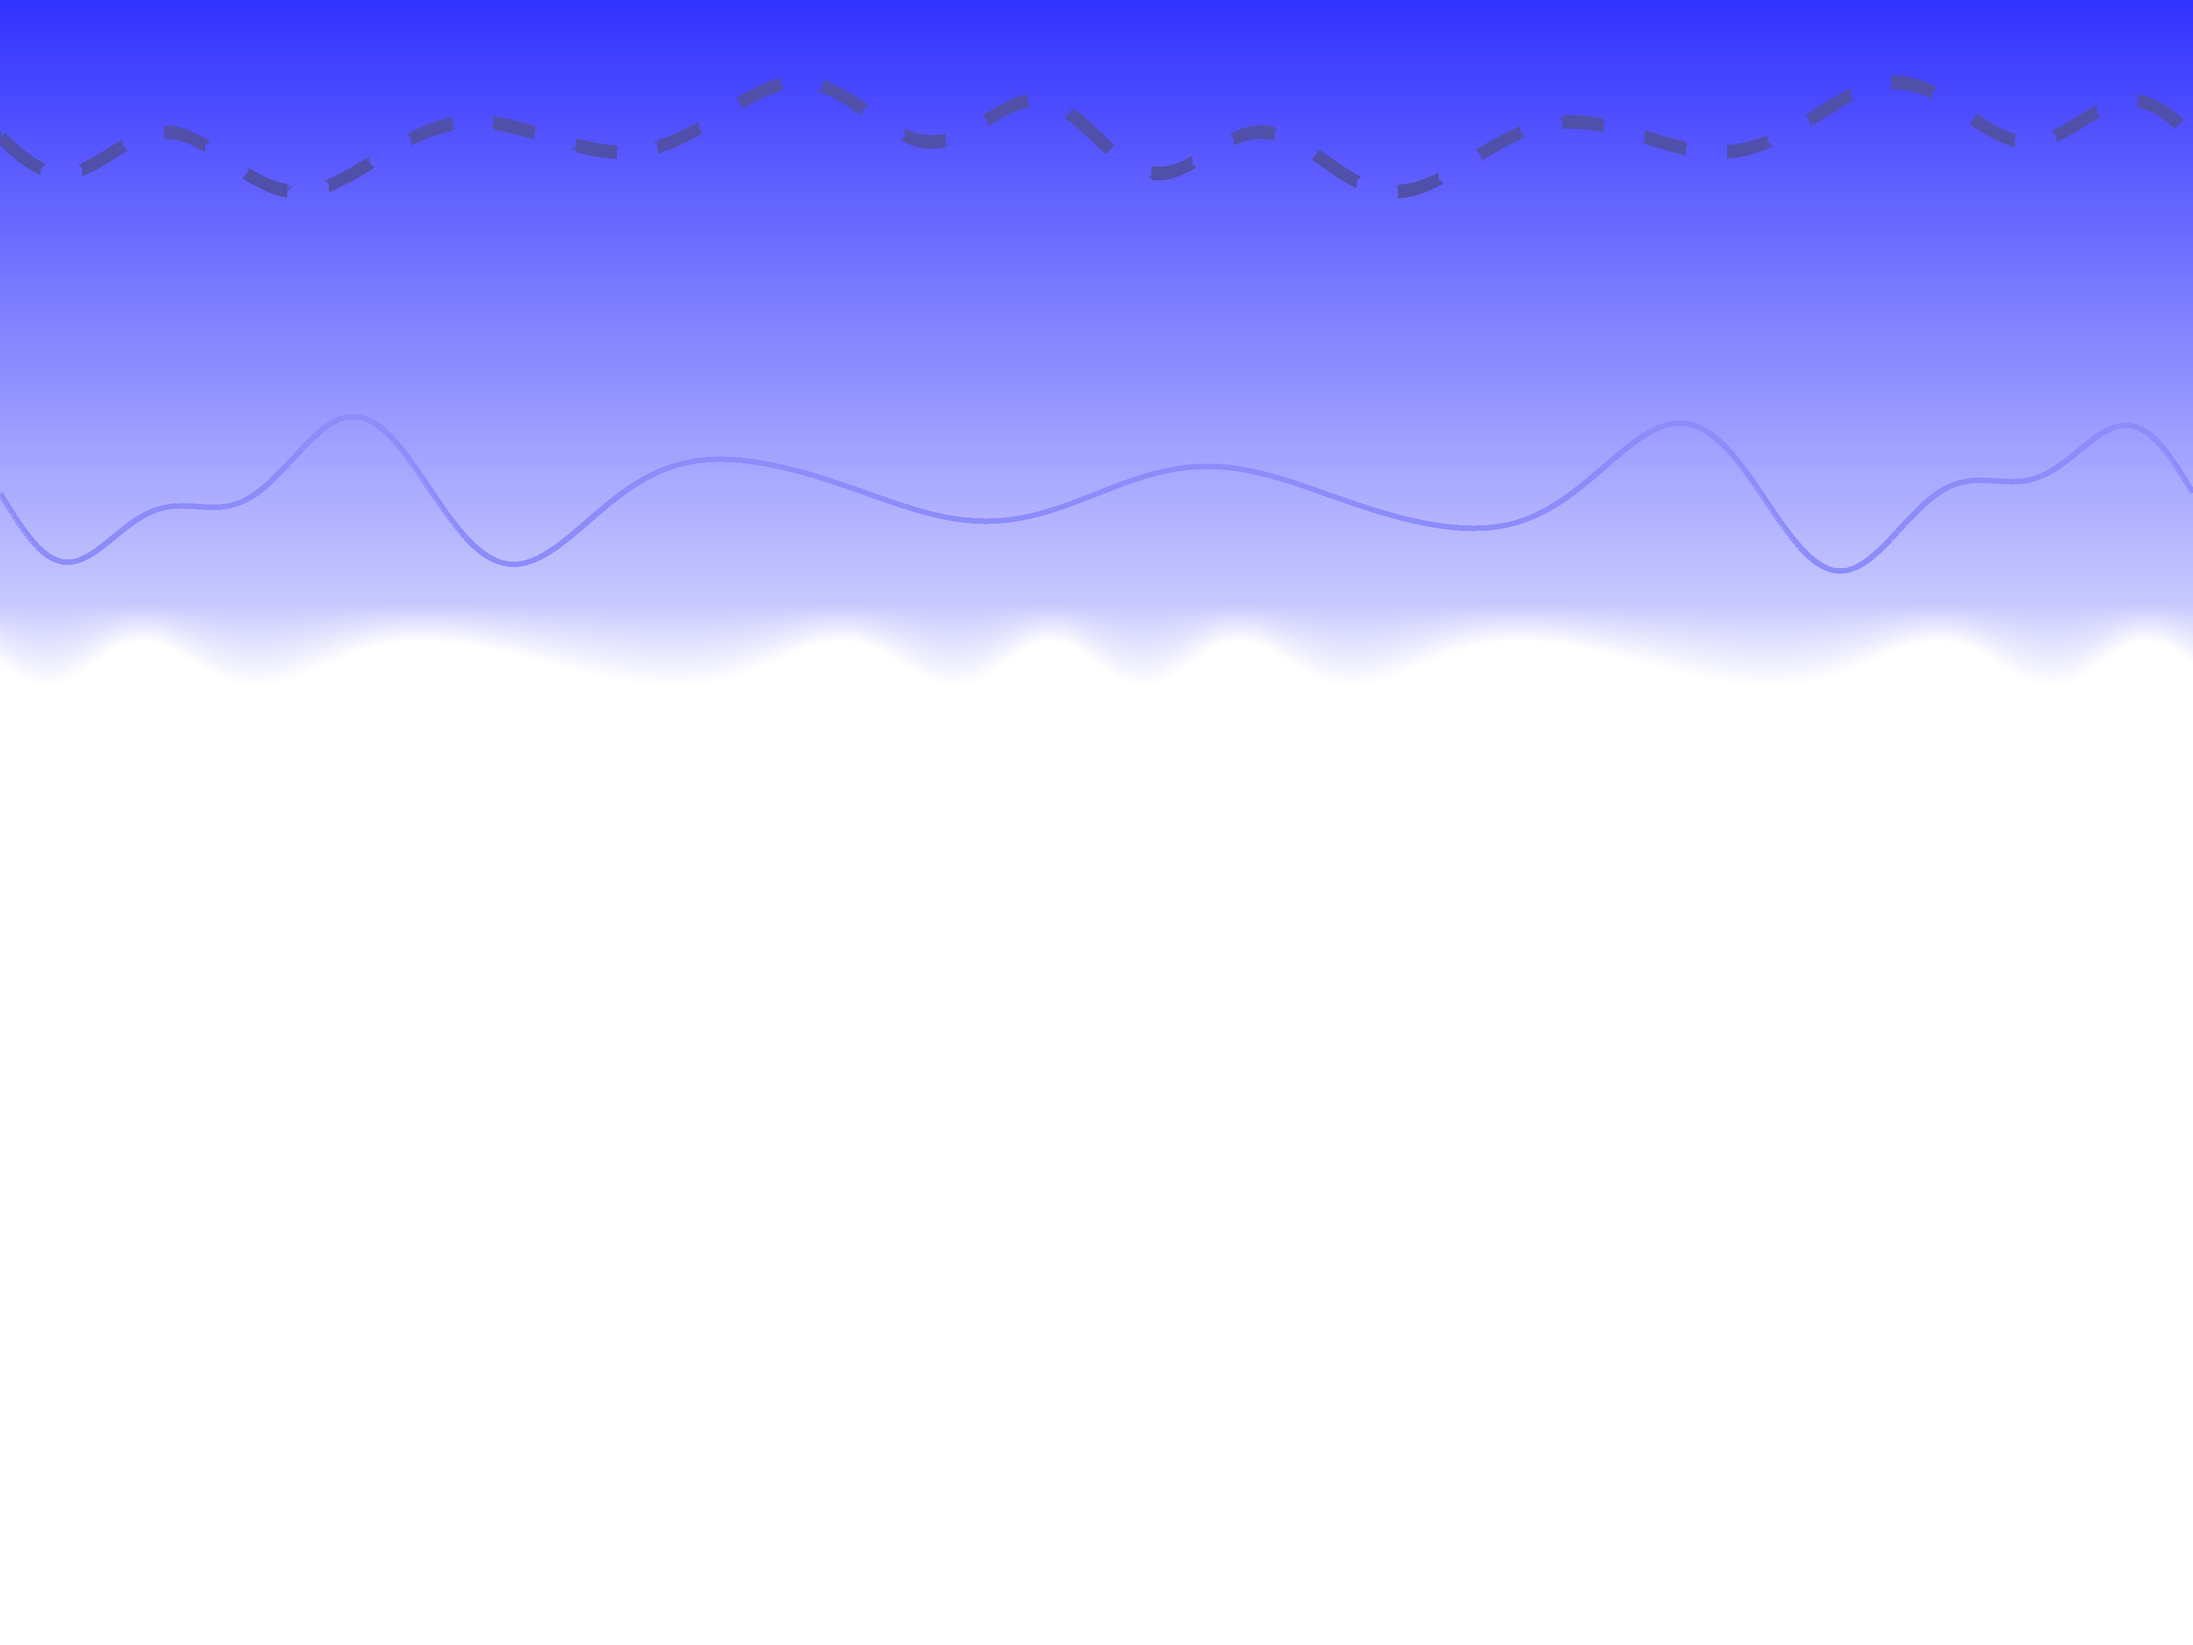
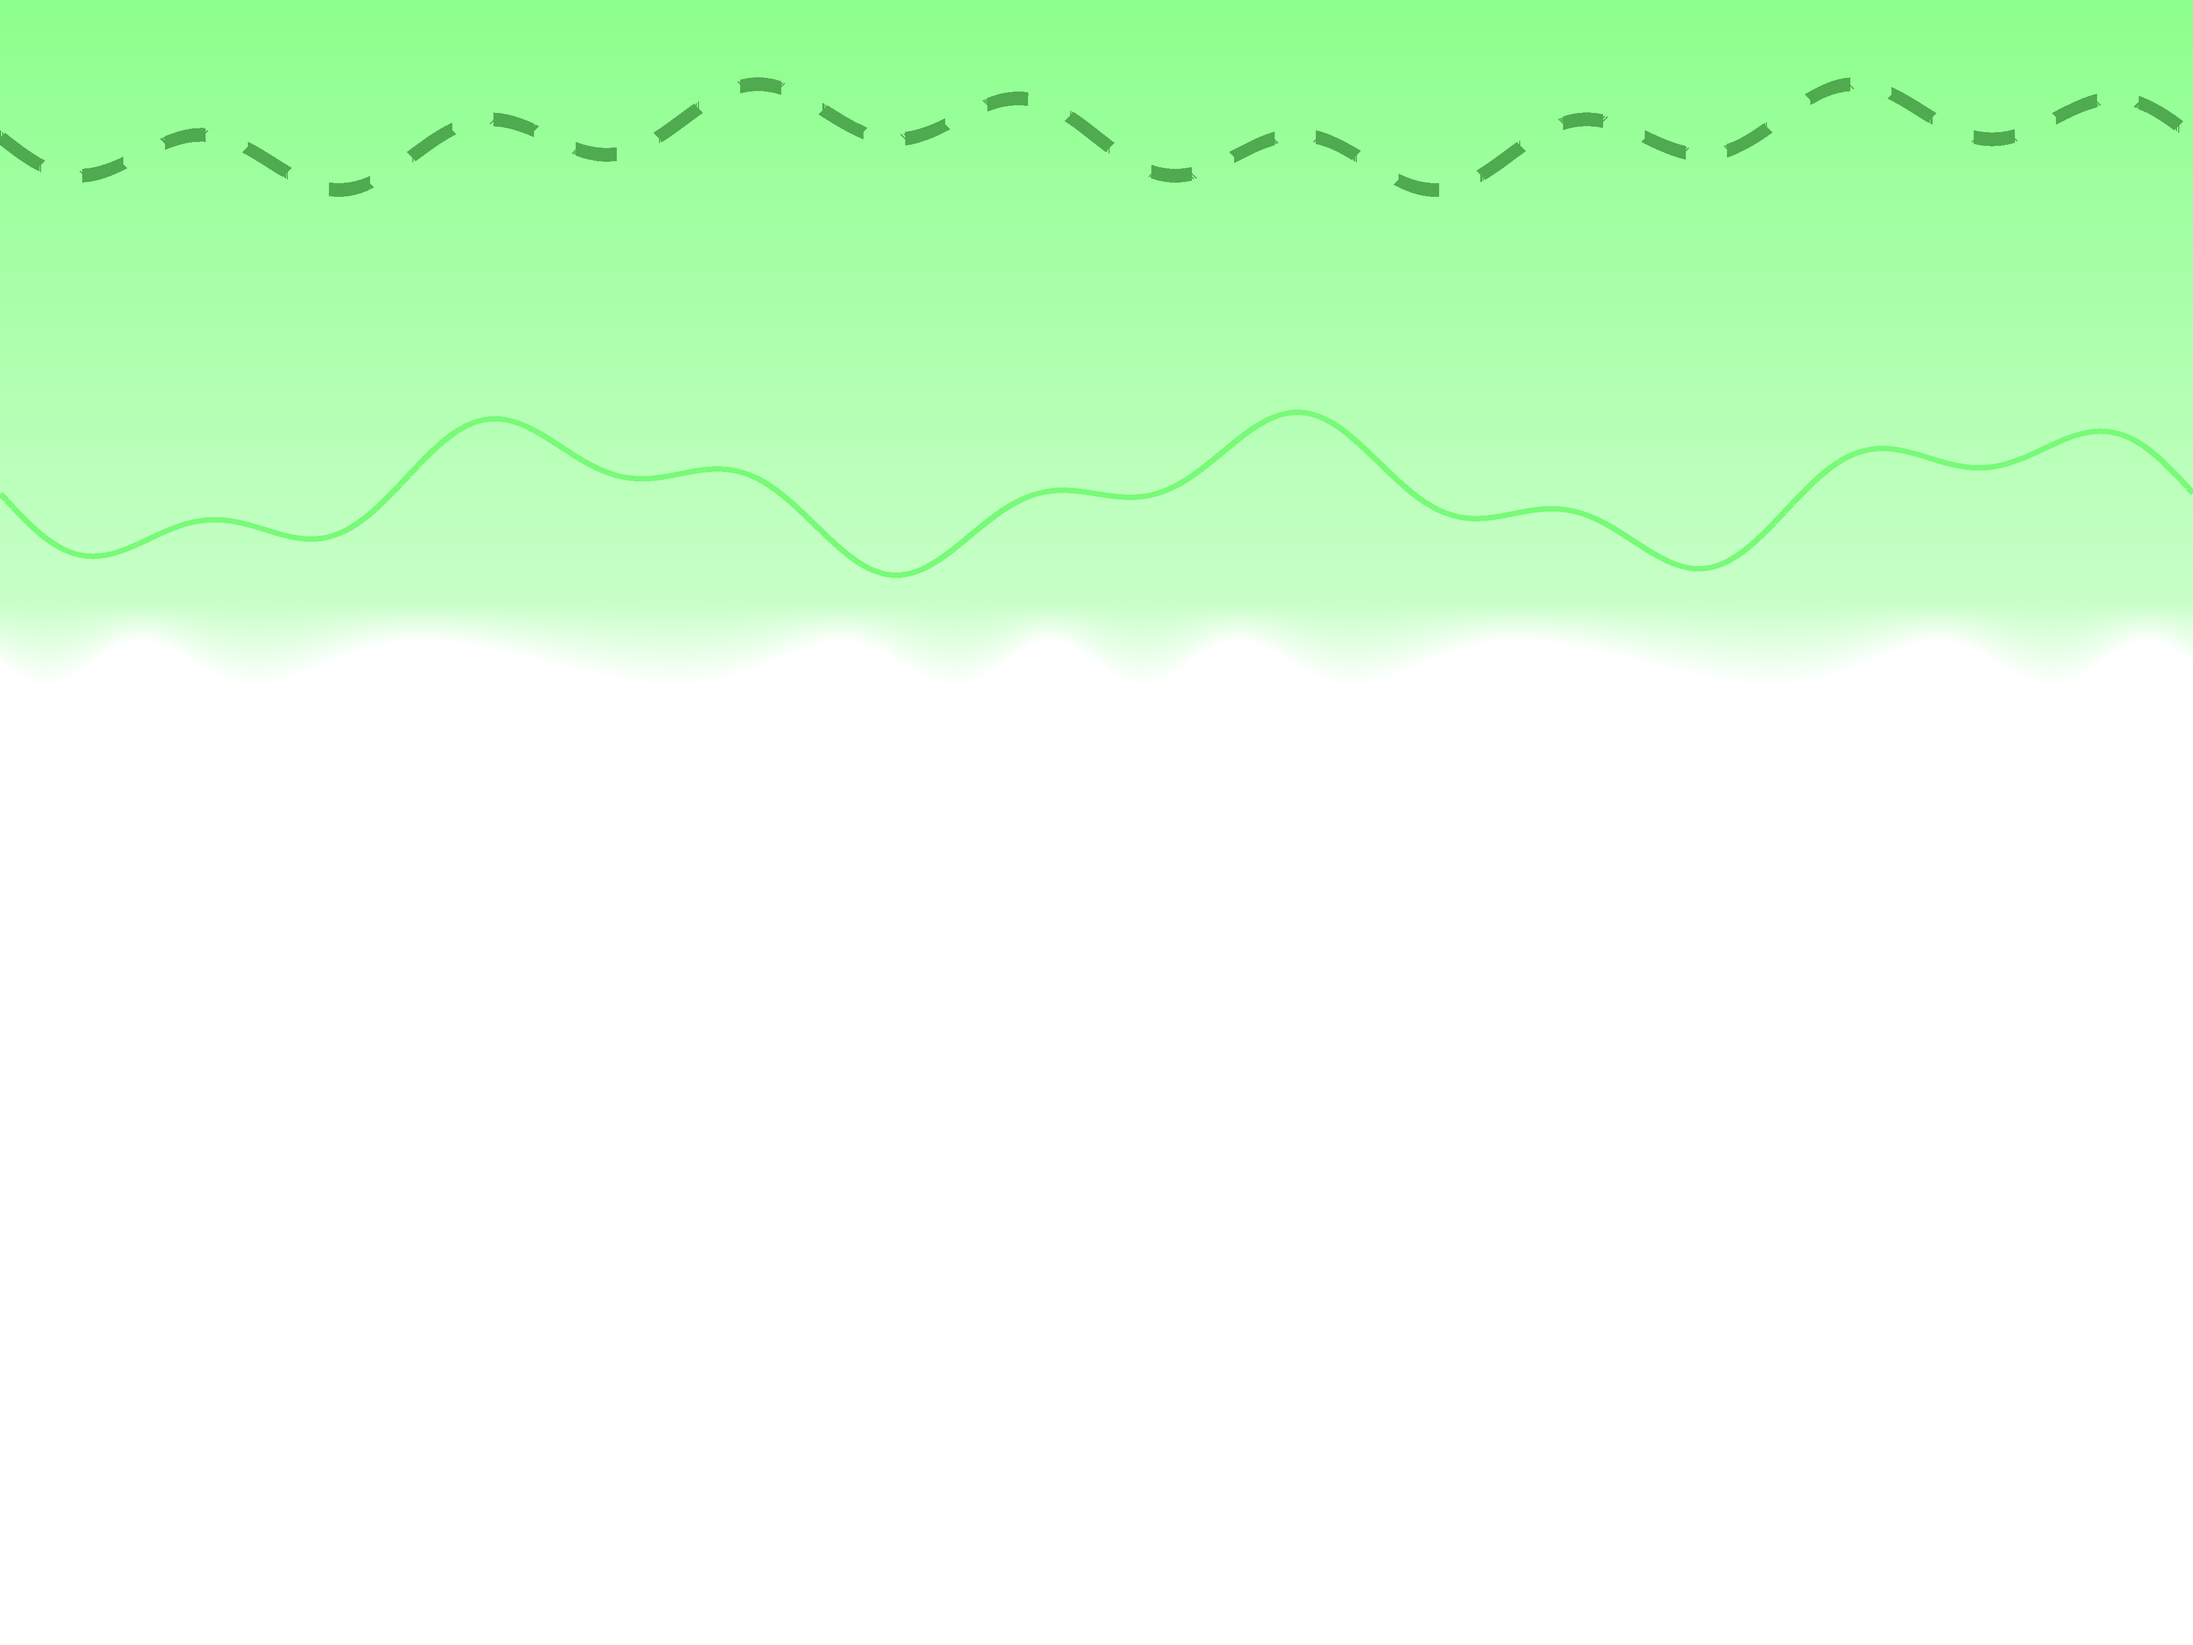
green images

diff --git a/poster/background.py b/poster/background.py
@@ -16,7 +16,7 @@ mod_index = 2
 # 固定グラデーションの高さ（px）
 y_fixed = 220 * scale
 border = 200
-minimum = 50
+minimum = 140
 
 # 画像生成
 img = Image.new('RGB', (width, height))
@@ -33,22 +33,22 @@ for x in range(width):
     ))
 
     y_wave_array1.append(int(offset + 10 * scale * np.sin(
-        2 * np.pi * carrier_freq * x_norm + 3 * np.sin(2 * np.pi * 1 * x_norm)
-    ) + 20 * scale * np.sin(2 * np.pi * 5 * x_norm)))
+        2 * np.pi * carrier_freq * x_norm # + 3 * np.sin(2 * np.pi * 1 * x_norm)
+    ) + 20 * scale * np.sin(2 * np.pi * 3 * x_norm)))
 
     y_wave_array2.append(int(offset + 10 * scale * np.sin(
-        2 * np.pi * carrier_freq * x_norm + 1 * np.sin(2 * np.pi * 2 * x_norm)
+        2 * np.pi * carrier_freq * x_norm # + 1 * np.sin(2 * np.pi * 2 * x_norm)
     ) + 10 * scale * np.sin(2 * np.pi * 2 * x_norm)))
 
     for y in range(height):
         if y < y_fixed:
             t = y / y_fixed
-            r = g = minimum + int((border - minimum) * t)
-            b = 255
+            r = b = minimum + int((border - minimum) * t)
+            g = 255
         elif y < y_wave:
             t = (y - y_fixed) / (y_wave - y_fixed)
-            r = g = border + int(border * t)
-            b = 255
+            r = b = border + int(border * t)
+            g = 255
         else:
             r = g = b = 255
 
@@ -63,13 +63,13 @@ for x in range(width):
     if count % (30 * scale) < (15 * scale):
         line2.append((x, max(0, y_wave_array2[x] - 250 * scale)))
     elif count % (30 * scale) == (15 * scale):
-        draw.line(line2, fill=(80, 80, 170), width=5 * scale)
+        draw.line(line2, fill=(80, 170, 80), width=5 * scale)
         line2 = []
     count += 1
 
 # y_wave_array1 に沿った線を描画（実線）
 line1 = [(x, max(0, y_wave_array1[x] - 120 * scale)) for x in range(width)]
-draw.line(line1, fill=(140, 140, 250), width=2 * scale)
+draw.line(line1, fill=(120, 250, 120), width=2 * scale)
 
 # 保存
 img.save('background.png')

diff --git a/poster/column.py b/poster/column.py
@@ -53,8 +53,8 @@ alpha = np.clip((fade_range - dist) / fade_range * 255, 0, 255).astype(np.uint8)
 # RGBA出力
 rgba = np.zeros((height, width, 4), dtype=np.uint8)
 rgba[..., 0] = 180     # R
-rgba[..., 1] = 180     # G
-rgba[..., 2] = 255     # B
+rgba[..., 1] = 255     # G
+rgba[..., 2] = 180     # B
 rgba[..., 3] = alpha   # A
 
 # PIL画像に変換して上下反転
